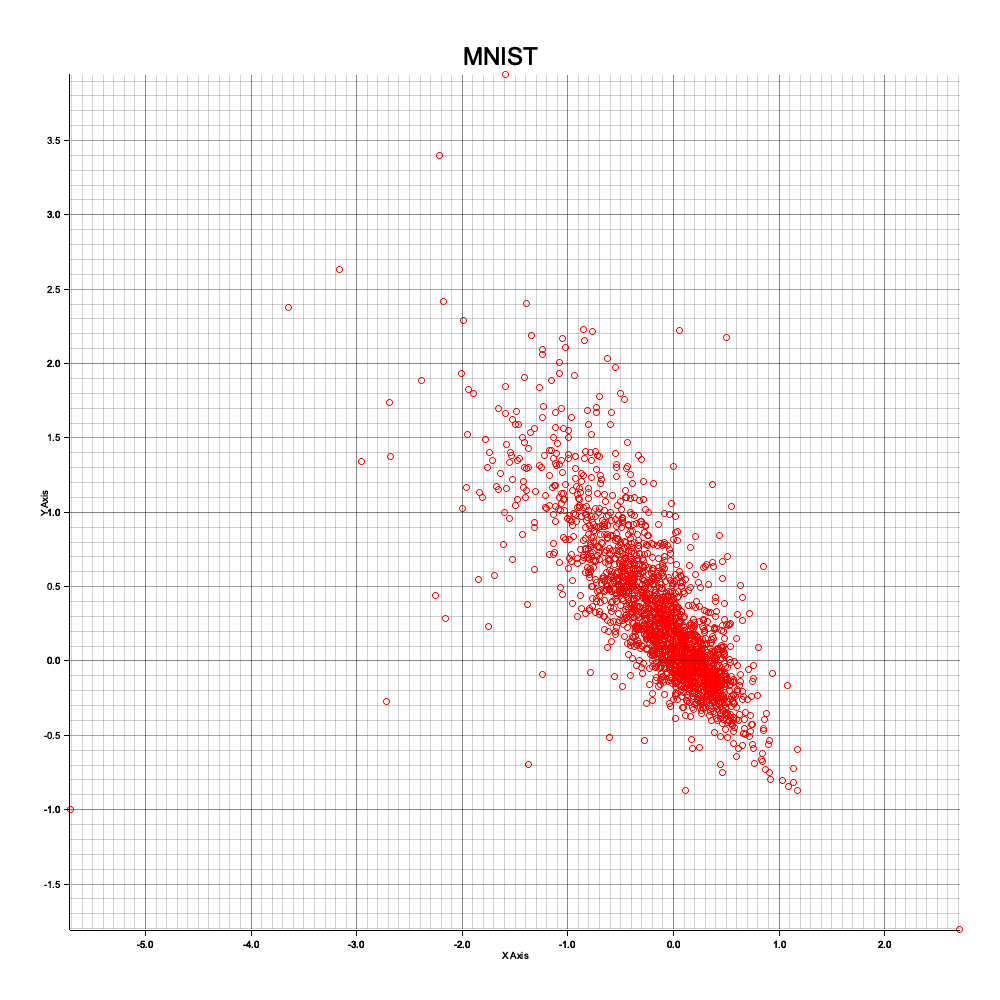
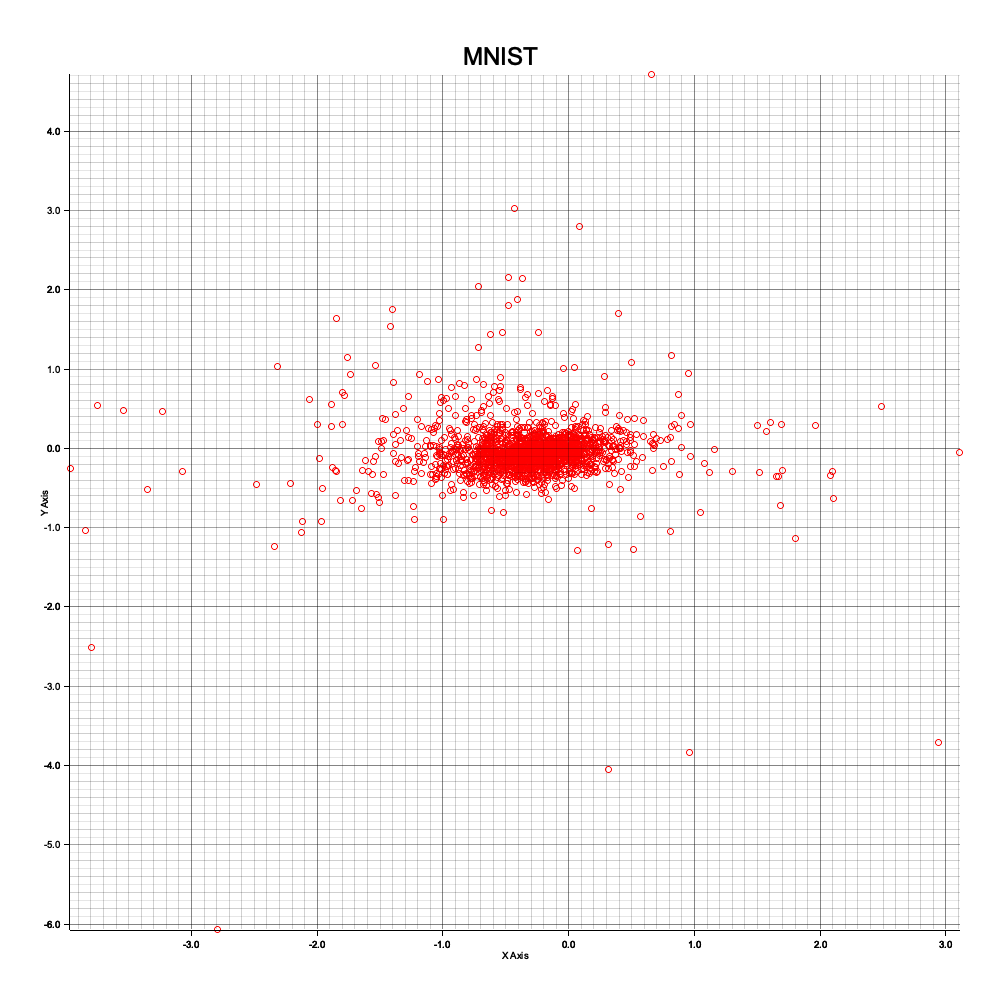
minkowski_p

Changed region(s): [[0.031, 0.062, 0.961, 0.961]]

diff --git a/examples/mnist.rs b/examples/mnist.rs
@@ -1,4 +1,5 @@
 use burn::{backend::*, module::*, prelude::*};
+use fast_umap::chart;
 #[allow(unused)]
 use fast_umap::{
     chart::*,
@@ -39,8 +40,11 @@ fn main() {
     let min_desired_loss = 0.0001; // Minimum loss threshold for early stopping
     let metric = Metric::Minkowski; // Alternative metric for neighbors search
     let loss_reduction = LossReduction::Sum;
+    // TODO: non 1.0 gives NaN loss.
+    let minkowski_p = 3.0; // 1 is manhattan, 2 is Euclidean
+    let normalized = true; // to reduce math, and keep it at float
 
-    // let timeout = 60; // timeout in seconds
+    let timeout = 30; // timeout in seconds
 
     // Seed the random number generator to ensure reproducibility
     MyBackend::seed(seed);
@@ -88,7 +92,9 @@ fn main() {
         .with_k_neighbors(k_neighbors) // Set the number of neighbors to consider for UMAP
         .with_min_desired_loss(min_desired_loss) // Set the minimum desired loss for early stopping
         .with_loss_reduction(loss_reduction)
-        // .with_timeout(timeout) // set timeout in seconds
+        .with_timeout(timeout) // set timeout in seconds
+        .with_minkowski_p(minkowski_p)
+        .with_normalized(normalized)
         .build()
         .expect("Failed to build TrainingConfig");
 
@@ -108,7 +114,7 @@ fn main() {
     let global = convert_vector_to_tensor(train_data, num_samples, num_features, &config.device);
 
     // Perform a forward pass through the model to obtain the low-dimensional (local) representation
-    let _local = model.forward(global.clone());
+    let local = model.forward(global.clone());
 
     // Optionally, print the global and local tensors for inspection (currently commented out)
     // if verbose {
@@ -116,11 +122,11 @@ fn main() {
     //     print_tensor_with_title("local", &local);
     // }
 
-    // let chart_config = ChartConfigBuilder::default()
-    //     .caption("MNIST")
-    //     .path("mnist.png")
-    //     .build();
+    let chart_config = ChartConfigBuilder::default()
+        .caption("MNIST")
+        .path("mnist.png")
+        .build();
 
     // // Visualize the 2D embedding (local representation) using a chart
-    // chart::chart_tensor(local, Some(chart_config));
+    chart::chart_tensor(local, Some(chart_config));
 }

diff --git a/src/distances.rs b/src/distances.rs
@@ -204,13 +204,13 @@ pub fn minkowski<B: AutodiffBackend>(tensor: Tensor<B, 2>, p: f64) -> Tensor<B, 
     let diff = tensor.clone().sub(reference_row.clone()).abs();
 
     // Raise the absolute differences to the power of p
-    let diff_p = diff.powf_scalar(p);
+    let diff_p = diff.powi_scalar(p);
 
     // Sum over the features (dim 1) for each row
     let sum_p = diff_p.sum_dim(1);
 
     // Take the p-th root of the sum
-    let distances = sum_p.powf_scalar(1.0 / p);
+    let distances = sum_p.powi_scalar((1.0 / p).ceil() as i32); // have to convert to integer, otherwise it returns NaN
 
     // Return the distances as a 1D tensor
     distances.reshape([n_samples])

diff --git a/src/train/mod.rs b/src/train/mod.rs
@@ -21,7 +21,7 @@ pub use config::*;
 use ctrlc;
 use get_distance_by_metric::get_distance_by_metric;
 use indicatif::{ProgressBar, ProgressStyle};
-use std::sync::mpsc::channel;
+use std::{sync::mpsc::channel, time::Duration};
 use std::{thread, time::Instant};
 
 /// Train the UMAP model over multiple epochs.
@@ -188,6 +188,12 @@ pub fn train<B: AutodiffBackend>(
                 current_loss,
                 best_loss,
             ));
+        }
+
+        if let Some(timeout) = config.timeout {
+            if elapsed >= Duration::from_secs(timeout) {
+                break;
+            }
         }
 
         // Track improvements in loss for early stopping.

diff --git a/src/train/config.rs b/src/train/config.rs
@@ -244,8 +244,8 @@ impl<B: AutodiffBackend> TrainingConfigBuilder<B> {
 
     /// The minkowski function supports any positive value of `p`. For `p = 1`,
     /// it computes Manhattan distance, and for `p = 2`, it computes Euclidean distance.
-    pub fn with_minkowski_p(mut self, p: f64) -> Self {
-        self.minkowski_p = Some(p);
+    pub fn with_minkowski_p(mut self, minkowski_p: f64) -> Self {
+        self.minkowski_p = Some(minkowski_p);
         self
     }
 
